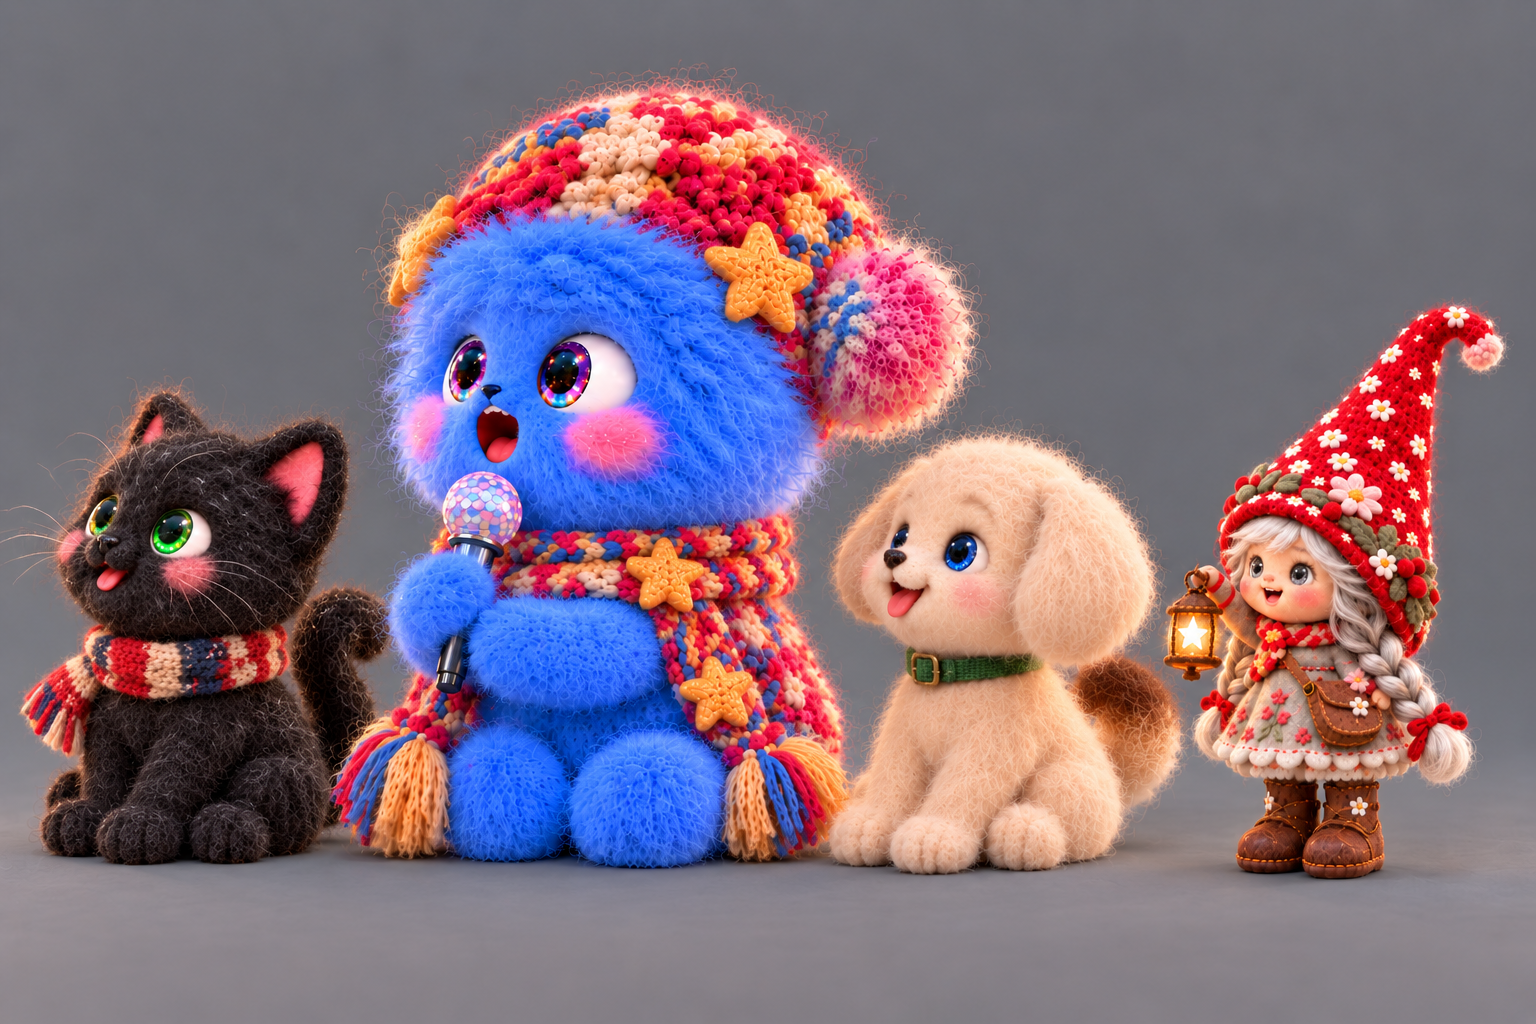
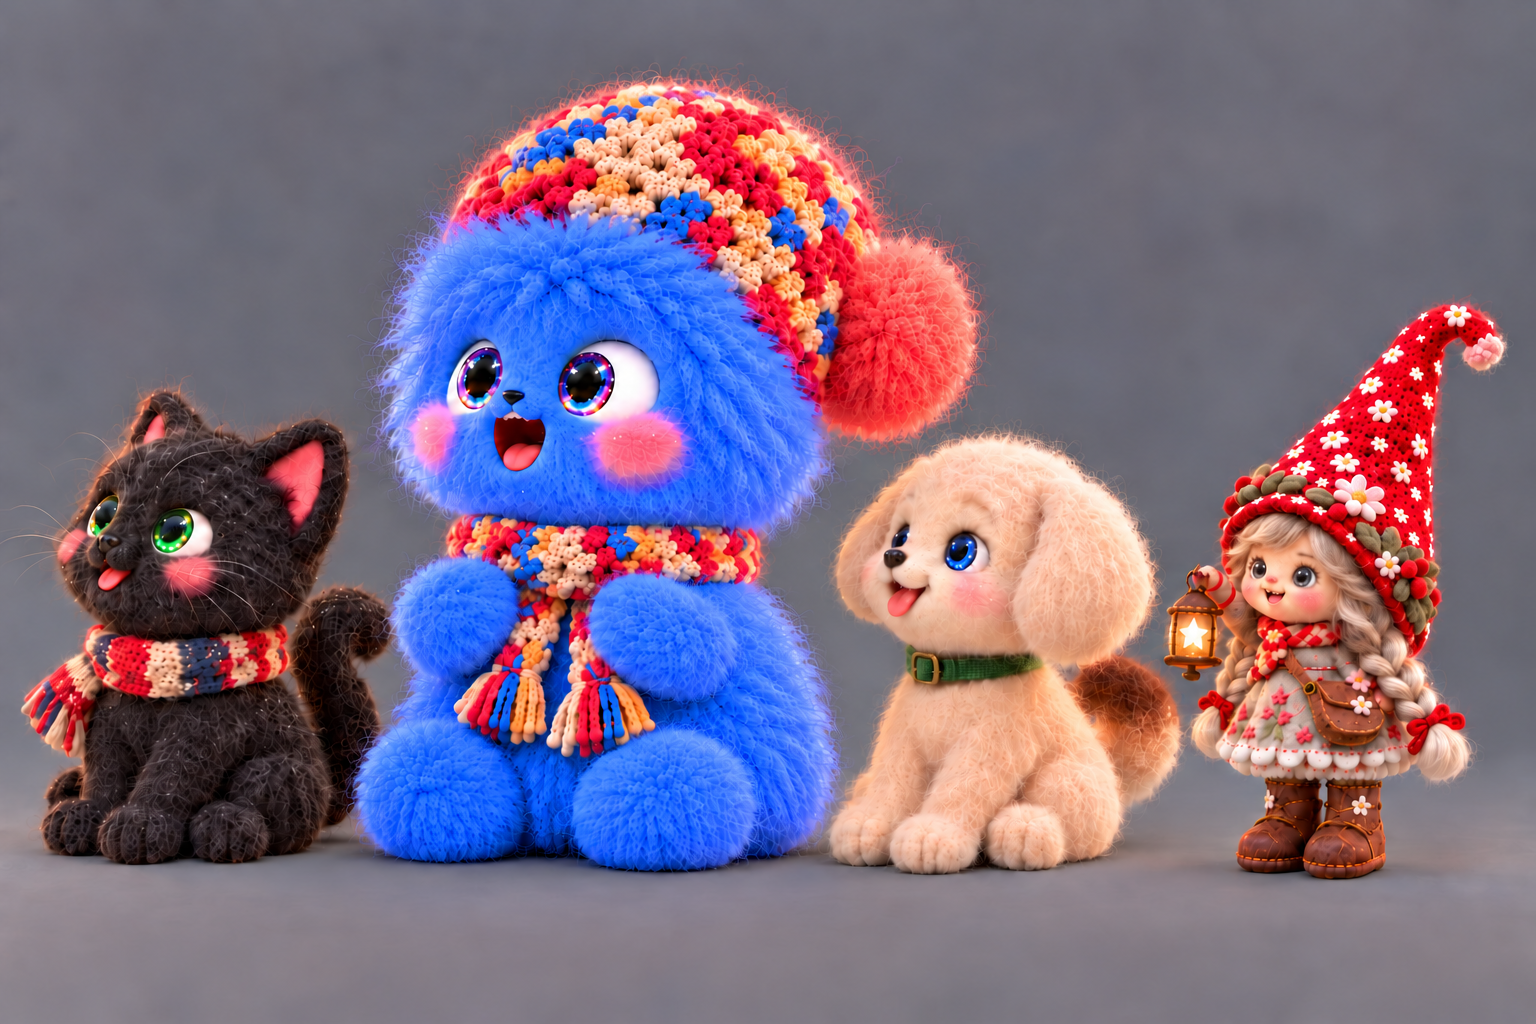
Update eight-angle character review with current Lumi and felted natural-haired Nomie

diff --git a/character-review/index.html b/character-review/index.html
@@ -9,7 +9,7 @@
   <title>Character review</title>
   <link rel="icon" href="data:,">
   <link rel="stylesheet" href="review.css">
-  <script src="review.js" defer></script>
+  <script src="review.js?v=20261002-lumi-nomie-v2" defer></script>
 </head>
 <body>
   <main class="review">
@@ -19,13 +19,13 @@
         <span class="count" id="view-count" aria-label="Image 1 of 8" aria-live="polite" aria-atomic="true">1 / 8</span>
       </div>
       <div class="actions">
-        <a id="original-link" href="images/front.png" target="_blank" rel="noopener">Original image</a>
-        <a id="download-link" href="images/front.png" download="front.png">Download</a>
+        <a id="original-link" href="images/front.png?v=20261002-lumi-nomie-v2" target="_blank" rel="noopener">Original image</a>
+        <a id="download-link" href="images/front.png?v=20261002-lumi-nomie-v2" download="front.png">Download</a>
       </div>
     </header>
 
     <button class="image-button" id="enlarge-button" type="button" aria-label="Enlarge front view of all four characters" aria-haspopup="dialog">
-      <img id="main-image" src="images/front.png" width="1536" height="1024" alt="Lumi, Kitty, Doggy and Nomie together, viewed from the front, in their current default outfits." fetchpriority="high">
+      <img id="main-image" src="images/front.png?v=20261002-lumi-nomie-v2" width="1536" height="1024" alt="Lumi, Kitty, Doggy and Nomie together, viewed from the front, in their current default outfits." fetchpriority="high">
       <span class="image-hint">Enlarge</span>
     </button>
     <p id="image-status" class="status" role="status" aria-live="polite"></p>
@@ -64,7 +64,7 @@
         </div>
       </header>
       <div class="zoom-area" id="zoom-area" tabindex="0" aria-label="Enlarged image. When zoomed, scroll to inspect it.">
-        <img id="dialog-image" src="images/front.png" width="1536" height="1024" alt="Lumi, Kitty, Doggy and Nomie together, viewed from the front, in their current default outfits.">
+        <img id="dialog-image" src="images/front.png?v=20261002-lumi-nomie-v2" width="1536" height="1024" alt="Lumi, Kitty, Doggy and Nomie together, viewed from the front, in their current default outfits.">
       </div>
     </div>
   </dialog>

diff --git a/character-review/review.js b/character-review/review.js
@@ -22,7 +22,8 @@ const zoomButton = byId('zoom-button');
 let currentIndex = 0;
 let enlarged = false;
 
-const imageURL = view => `images/${view.id}.png`;
+const imageRevision = '20261002-lumi-nomie-v2';
+const imageURL = view => `images/${view.id}.png?v=${imageRevision}`;
 const imageAlt = view => `Lumi, Kitty, Doggy and Nomie together, viewed ${view.description}, in their current default outfits.`;
 
 for (const [index, view] of views.entries()) {
